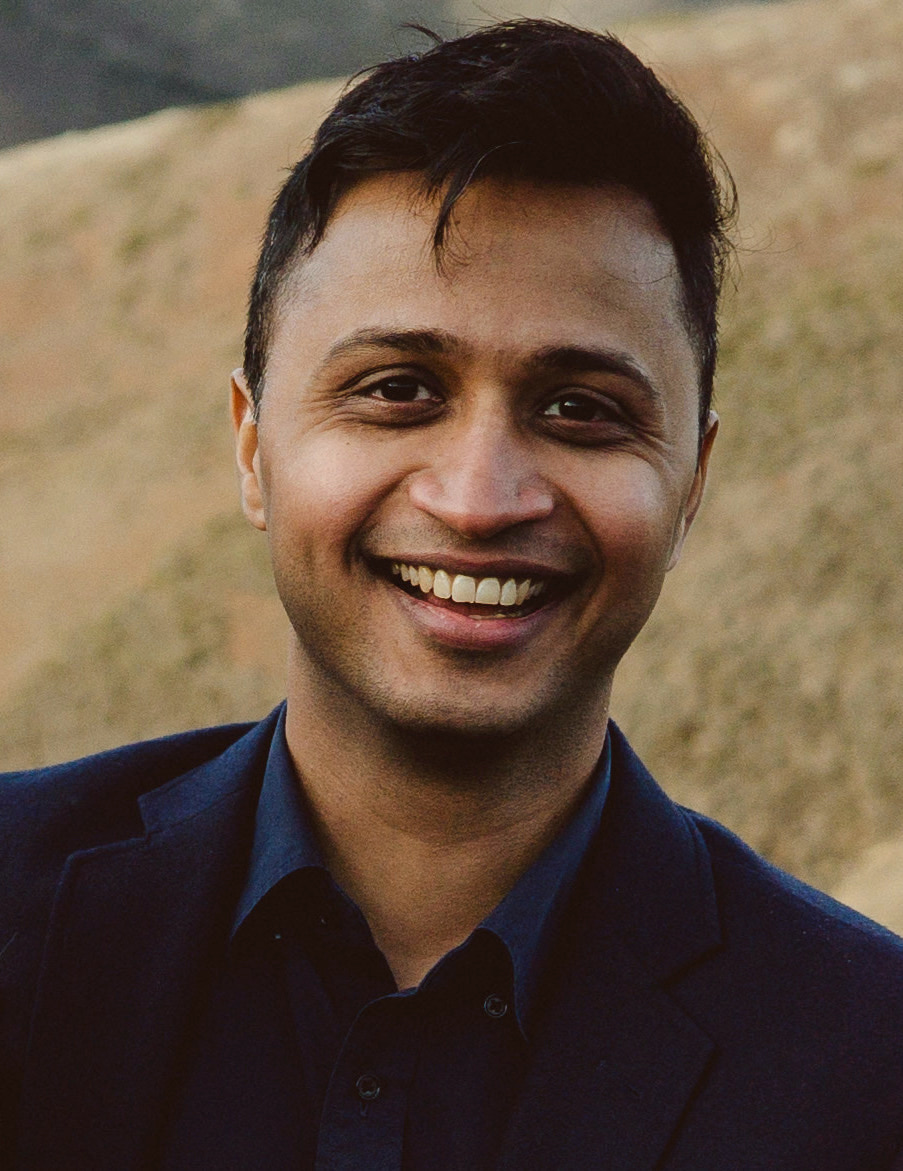
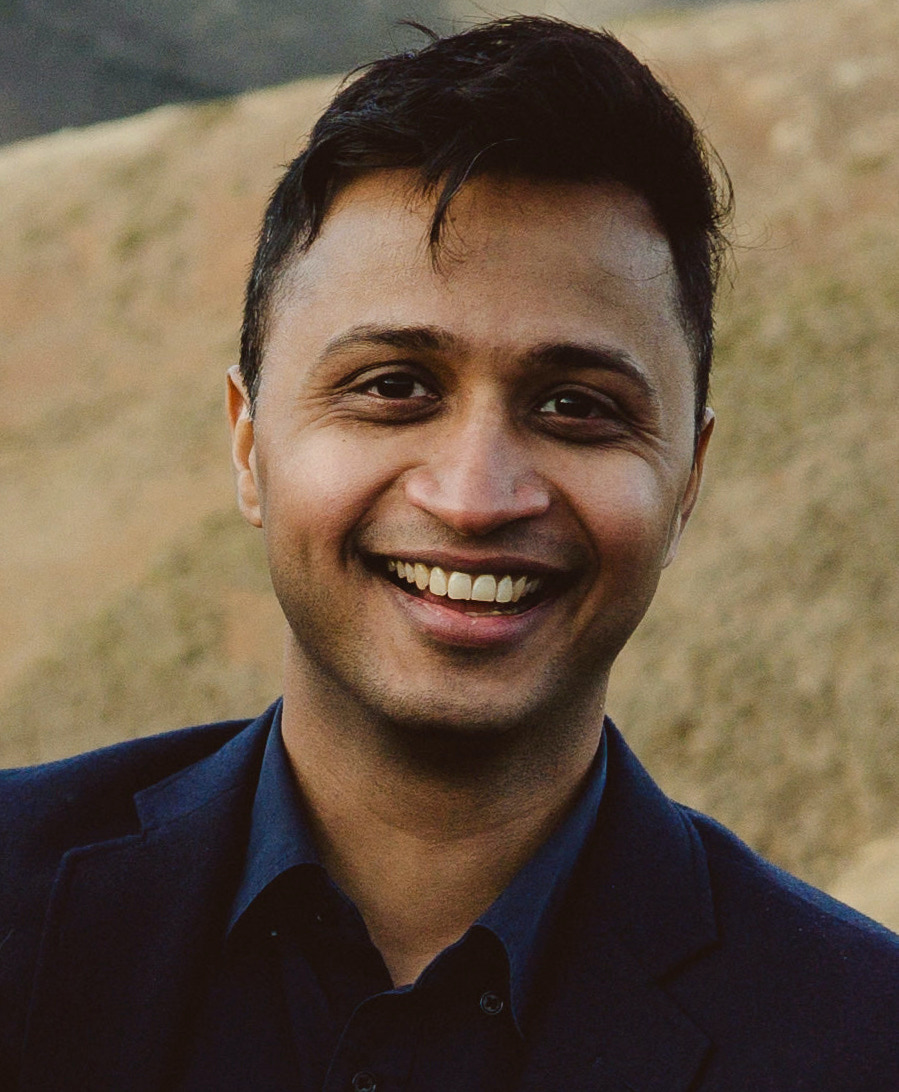
l

diff --git a/index.html b/index.html
@@ -719,9 +719,9 @@
             <div class="sm:container sm:mx-auto px-10 md:px-30 lg:px-30 xl:px-40 py-10 text">
                 <h1 class="text-4xl py-8">Rachit Dubey</h1>
                 <div class="md:grid md:grid-cols-4 md:gap-x-4">
-                    <div class="col-span-1 mb-10">
+                    <div class="col-span-1 mb-10" style="width: 90%;">
                         <div class="w-48 h-52 md:h-auto md:w-auto">
-                            <img id="me-image" src="me.jpg" alt="Rachit Dubey headshot" width="250" height="250" />
+                            <img id="me-image" src="me.jpg" alt="Rachit Dubey headshot" width="auto" height="auto" />
                         </div>
                             <br> <!-- Add a line break here -->
                             <div style="background-color: #F8F8F8; padding-top: 10px; padding-left: 5px; border: 1px solid #C4C4C4;">
